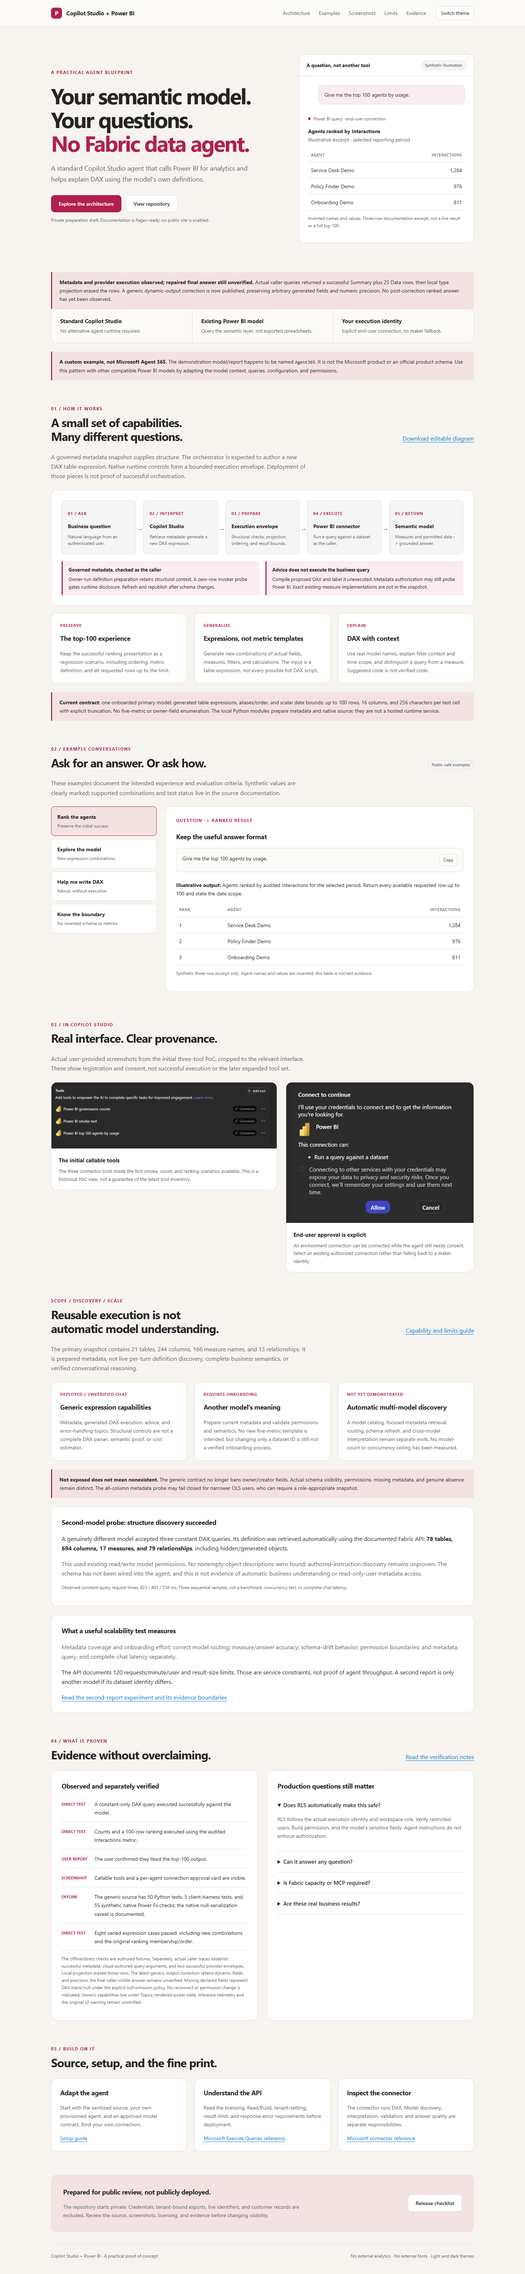
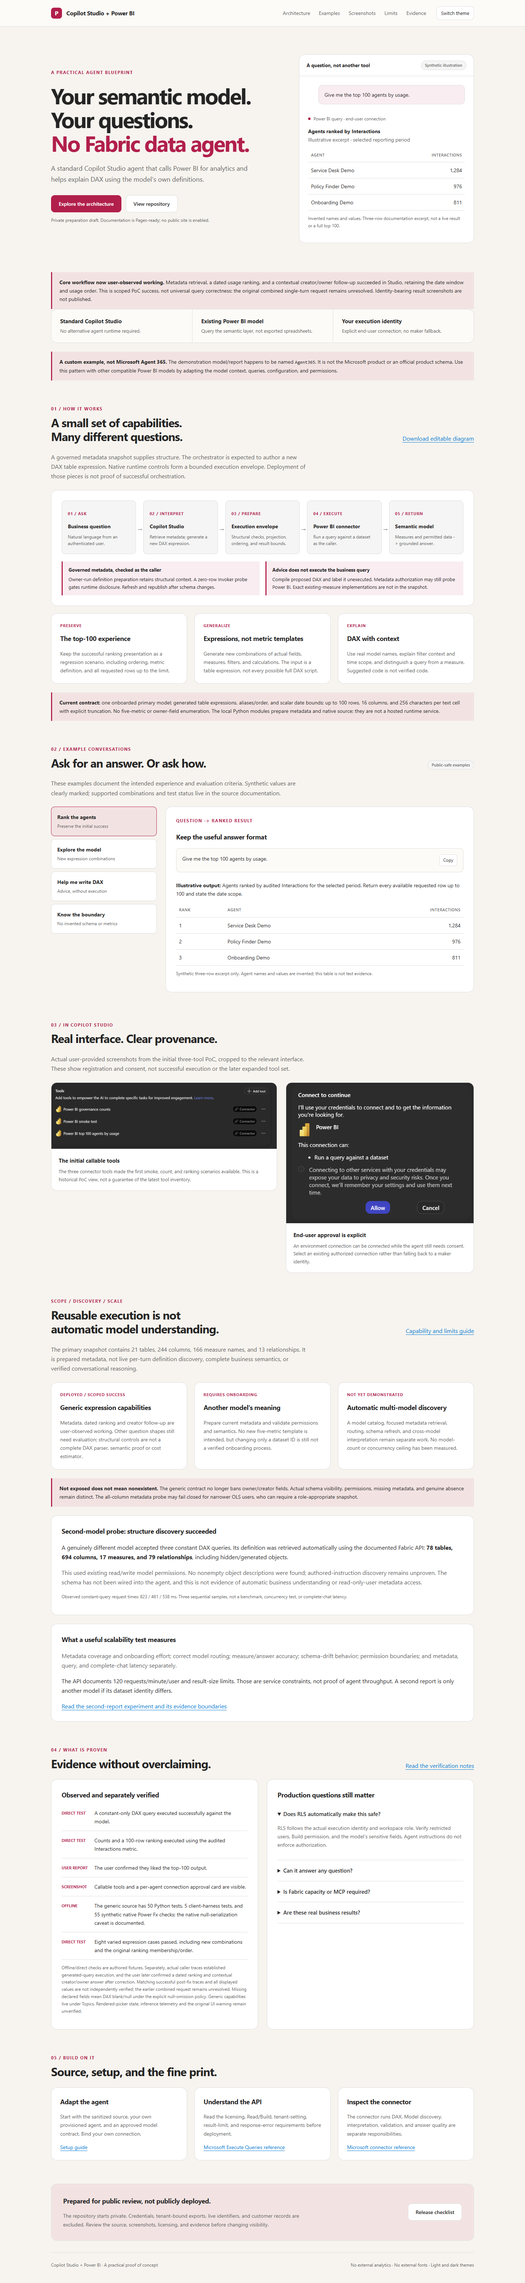
Document successful dated ranking and contextual creator follow-up
Record scoped user-observed PoC success while retaining the unresolved combined-request and trace limitations. Refresh the walkthrough and provenance without publishing identity-bearing screenshots or changing the working agent.

diff --git a/docs/index.html b/docs/index.html
@@ -228,7 +228,7 @@
         </div>
       </div>
     </div>
-    <div class="note"><strong>Metadata and provider execution observed; repaired final answer still unverified.</strong> Actual caller queries returned a successful Summary plus 25 Data rows, then local type projection erased the rows. A generic dynamic-output correction is now published, preserving arbitrary generated fields and numeric precision. No post-correction ranked answer has yet been observed.</div>
+    <div class="note"><strong>Core workflow now user-observed working.</strong> Metadata retrieval, a dated usage ranking, and a contextual creator/owner follow-up succeeded in Studio, retaining the date window and usage order. This is scoped PoC success, not universal query correctness: the original combined single-turn request remains unresolved. Identity-bearing result screenshots are not published.</div>
     <div class="strip">
       <div><strong>Standard Copilot Studio</strong><span>No alternative agent runtime required.</span></div>
       <div><strong>Existing Power BI model</strong><span>Query the semantic layer, not exported spreadsheets.</span></div>
@@ -284,7 +284,7 @@
           <div class="prompt-box"><p id="prompt-analyze">Give me the top agents and their usage over the last 30 days.</p><button class="copy" data-copy="prompt-analyze" type="button">Copy</button></div>
           <p><strong>Expected answer contract:</strong> retrieve relevant metadata, generate a ranking expression with paired date expressions using the trusted engine UTC anchor, and explain the actual requested scope. Do not substitute an all-history ranking.</p>
           <p>Follow with <em>"Add platform and region, apply these two filters, and calculate sessions per user."</em> Those combinations should be authored from metadata rather than require a new metric template. Observe the actual generated expression before claiming success.</p>
-          <div class="note">Evaluation scenario, not a recorded successful chat. With a 12 September 2026 test clock, the requested window is 14 August-12 September inclusive. Production dates are dynamic. Observed event bounds are not refresh timestamps or proof of continuous coverage.</div>
+          <div class="note">A dated usage ranking and creator follow-up are user-observed successful; this example is not a published transcript. With a 12 September 2026 UTC anchor, the requested window is 14 August-12 September inclusive. Production dates are dynamic. Observed event bounds are not refresh timestamps or proof of continuous coverage.</div>
         </div>
         <div class="panel example-panel" id="panel-dax" role="tabpanel" aria-labelledby="tab-dax" tabindex="0" hidden>
           <span class="eyebrow">Question -> model-grounded explanation</span><h3>Teach the query, not just its result</h3>
@@ -323,7 +323,7 @@ ORDER BY 'Date'[YearMonth]</code></pre>
       <div class="section-title"><div><span class="eyebrow">Scope / Discovery / Scale</span><h2>Reusable execution is not<br>automatic model understanding.</h2></div><a href="https://github.com/RyanBowie/copilot-studio-powerbi-agent/blob/main/docs/capabilities-and-limits.md">Capability and limits guide</a></div>
       <p class="section-copy">The primary snapshot contains 21 tables, 244 columns, 166 measure names, and 13 relationships. It is prepared metadata, not live per-turn definition discovery, complete business semantics, or verified conversational reasoning.</p>
       <div class="three-grid">
-        <article class="panel feature"><span class="step-no">DEPLOYED / UNVERIFIED CHAT</span><h3>Generic expression capabilities</h3><p>Metadata, generated-DAX execution, advice, and error-handling topics. Structural controls are not a complete DAX parser, semantic proof, or cost estimator.</p></article>
+        <article class="panel feature"><span class="step-no">DEPLOYED / SCOPED SUCCESS</span><h3>Generic expression capabilities</h3><p>Metadata, dated ranking and creator follow-up are user-observed working. Other question shapes still need evaluation; structural controls are not a complete DAX parser, semantic proof or cost estimator.</p></article>
         <article class="panel feature"><span class="step-no">REQUIRES ONBOARDING</span><h3>Another model's meaning</h3><p>Prepare current metadata and validate permissions and semantics. No new five-metric template is intended, but changing only a dataset ID is still not a verified onboarding process.</p></article>
         <article class="panel feature"><span class="step-no">NOT YET DEMONSTRATED</span><h3>Automatic multi-model discovery</h3><p>A model catalog, focused metadata retrieval, routing, schema refresh, and cross-model interpretation remain separate work. No model-count or concurrency ceiling has been measured.</p></article>
       </div>
@@ -353,12 +353,12 @@ ORDER BY 'Date'[YearMonth]</code></pre>
           <div class="check-row"><span class="status">SCREENSHOT</span><span>Callable tools and a per-agent connection approval card are visible.</span></div>
           <div class="check-row"><span class="status">OFFLINE</span><span>The generic source has 50 Python tests, 5 client-harness tests, and 55 synthetic native Power Fx checks; the native null-serialization caveat is documented.</span></div>
           <div class="check-row"><span class="status">DIRECT TEST</span><span>Eight varied expression cases passed, including new combinations and the original ranking membership/order.</span></div>
-          <p class="footnote">The offline/direct checks are authored fixtures. Separately, actual caller traces establish successful metadata, cloud-authored query arguments, and two successful provider envelopes. Local projection erased those rows. The latest generic output correction retains dynamic fields and precision; the final caller-visible answer remains unverified. Missing declared fields represent DAX blank/null under the explicit null-omission policy. No reconnect or permission change is indicated. Generic capabilities live under Topics; rendered-picker state, inference telemetry and the original UI warning remain unverified.</p>
+          <p class="footnote">Offline/direct checks are authored fixtures. Separately, actual caller traces established generated-query execution, and the user later confirmed a dated ranking and contextual creator/owner answer after correction. Matching successful post-fix traces and all displayed values are not independently verified; the earlier combined request remains unresolved. Missing declared fields mean DAX blank/null under the explicit null-omission policy. Generic capabilities live under Topics. Rendered-picker state, inference telemetry and the original UI warning remain unverified.</p>
         </div>
         <div class="panel">
           <h3>Production questions still matter</h3>
           <details open><summary>Does RLS automatically make this safe?</summary><p>RLS follows the actual execution identity and workspace role. Verify restricted users, Build permission, and the model's sensitive fields. Agent instructions do not enforce authorization.</p></details>
-          <details><summary>Can it answer any question?</summary><p>No guarantee. The generic contract removes the five-metric mapping but still requires valid metadata, permissions, supported table-expression syntax, and correct reasoning. Exact measure implementations and automatic multi-model routing are not provided, and successful chat generation is not yet verified.</p></details>
+          <details><summary>Can it answer any question?</summary><p>No guarantee. The generic contract removes the five-metric mapping but still requires valid metadata, permissions, supported table-expression syntax and correct reasoning. Dated ranking and creator follow-up are user-observed working; the combined request and broader question coverage remain unverified. Exact measure implementations and automatic multi-model routing are not provided.</p></details>
           <details><summary>Is Fabric capacity or MCP required?</summary><p>A Fabric data agent is not required for the connector/REST route. Power BI licensing still applies. Hosted Power BI MCP is a separate optional integration; its query-generation tool has Copilot entitlement requirements.</p></details>
           <details><summary>Are these real business results?</summary><p>The UI screenshots are real. Public example names and numbers are synthetic. No customer result rows or private conversation transcripts are published here.</p></details>
         </div>

diff --git a/site/index.template.html b/site/index.template.html
@@ -228,7 +228,7 @@
         </div>
       </div>
     </div>
-    <div class="note"><strong>Metadata and provider execution observed; repaired final answer still unverified.</strong> Actual caller queries returned a successful Summary plus 25 Data rows, then local type projection erased the rows. A generic dynamic-output correction is now published, preserving arbitrary generated fields and numeric precision. No post-correction ranked answer has yet been observed.</div>
+    <div class="note"><strong>Core workflow now user-observed working.</strong> Metadata retrieval, a dated usage ranking, and a contextual creator/owner follow-up succeeded in Studio, retaining the date window and usage order. This is scoped PoC success, not universal query correctness: the original combined single-turn request remains unresolved. Identity-bearing result screenshots are not published.</div>
     <div class="strip">
       <div><strong>Standard Copilot Studio</strong><span>No alternative agent runtime required.</span></div>
       <div><strong>Existing Power BI model</strong><span>Query the semantic layer, not exported spreadsheets.</span></div>
@@ -284,7 +284,7 @@
           <div class="prompt-box"><p id="prompt-analyze">Give me the top agents and their usage over the last 30 days.</p><button class="copy" data-copy="prompt-analyze" type="button">Copy</button></div>
           <p><strong>Expected answer contract:</strong> retrieve relevant metadata, generate a ranking expression with paired date expressions using the trusted engine UTC anchor, and explain the actual requested scope. Do not substitute an all-history ranking.</p>
           <p>Follow with <em>"Add platform and region, apply these two filters, and calculate sessions per user."</em> Those combinations should be authored from metadata rather than require a new metric template. Observe the actual generated expression before claiming success.</p>
-          <div class="note">Evaluation scenario, not a recorded successful chat. With a 12 September 2026 test clock, the requested window is 14 August-12 September inclusive. Production dates are dynamic. Observed event bounds are not refresh timestamps or proof of continuous coverage.</div>
+          <div class="note">A dated usage ranking and creator follow-up are user-observed successful; this example is not a published transcript. With a 12 September 2026 UTC anchor, the requested window is 14 August-12 September inclusive. Production dates are dynamic. Observed event bounds are not refresh timestamps or proof of continuous coverage.</div>
         </div>
         <div class="panel example-panel" id="panel-dax" role="tabpanel" aria-labelledby="tab-dax" tabindex="0" hidden>
           <span class="eyebrow">Question -> model-grounded explanation</span><h3>Teach the query, not just its result</h3>
@@ -323,7 +323,7 @@ ORDER BY 'Date'[YearMonth]</code></pre>
       <div class="section-title"><div><span class="eyebrow">Scope / Discovery / Scale</span><h2>Reusable execution is not<br>automatic model understanding.</h2></div><a href="https://github.com/RyanBowie/copilot-studio-powerbi-agent/blob/main/docs/capabilities-and-limits.md">Capability and limits guide</a></div>
       <p class="section-copy">The primary snapshot contains 21 tables, 244 columns, 166 measure names, and 13 relationships. It is prepared metadata, not live per-turn definition discovery, complete business semantics, or verified conversational reasoning.</p>
       <div class="three-grid">
-        <article class="panel feature"><span class="step-no">DEPLOYED / UNVERIFIED CHAT</span><h3>Generic expression capabilities</h3><p>Metadata, generated-DAX execution, advice, and error-handling topics. Structural controls are not a complete DAX parser, semantic proof, or cost estimator.</p></article>
+        <article class="panel feature"><span class="step-no">DEPLOYED / SCOPED SUCCESS</span><h3>Generic expression capabilities</h3><p>Metadata, dated ranking and creator follow-up are user-observed working. Other question shapes still need evaluation; structural controls are not a complete DAX parser, semantic proof or cost estimator.</p></article>
         <article class="panel feature"><span class="step-no">REQUIRES ONBOARDING</span><h3>Another model's meaning</h3><p>Prepare current metadata and validate permissions and semantics. No new five-metric template is intended, but changing only a dataset ID is still not a verified onboarding process.</p></article>
         <article class="panel feature"><span class="step-no">NOT YET DEMONSTRATED</span><h3>Automatic multi-model discovery</h3><p>A model catalog, focused metadata retrieval, routing, schema refresh, and cross-model interpretation remain separate work. No model-count or concurrency ceiling has been measured.</p></article>
       </div>
@@ -353,12 +353,12 @@ ORDER BY 'Date'[YearMonth]</code></pre>
           <div class="check-row"><span class="status">SCREENSHOT</span><span>Callable tools and a per-agent connection approval card are visible.</span></div>
           <div class="check-row"><span class="status">OFFLINE</span><span>The generic source has 50 Python tests, 5 client-harness tests, and 55 synthetic native Power Fx checks; the native null-serialization caveat is documented.</span></div>
           <div class="check-row"><span class="status">DIRECT TEST</span><span>Eight varied expression cases passed, including new combinations and the original ranking membership/order.</span></div>
-          <p class="footnote">The offline/direct checks are authored fixtures. Separately, actual caller traces establish successful metadata, cloud-authored query arguments, and two successful provider envelopes. Local projection erased those rows. The latest generic output correction retains dynamic fields and precision; the final caller-visible answer remains unverified. Missing declared fields represent DAX blank/null under the explicit null-omission policy. No reconnect or permission change is indicated. Generic capabilities live under Topics; rendered-picker state, inference telemetry and the original UI warning remain unverified.</p>
+          <p class="footnote">Offline/direct checks are authored fixtures. Separately, actual caller traces established generated-query execution, and the user later confirmed a dated ranking and contextual creator/owner answer after correction. Matching successful post-fix traces and all displayed values are not independently verified; the earlier combined request remains unresolved. Missing declared fields mean DAX blank/null under the explicit null-omission policy. Generic capabilities live under Topics. Rendered-picker state, inference telemetry and the original UI warning remain unverified.</p>
         </div>
         <div class="panel">
           <h3>Production questions still matter</h3>
           <details open><summary>Does RLS automatically make this safe?</summary><p>RLS follows the actual execution identity and workspace role. Verify restricted users, Build permission, and the model's sensitive fields. Agent instructions do not enforce authorization.</p></details>
-          <details><summary>Can it answer any question?</summary><p>No guarantee. The generic contract removes the five-metric mapping but still requires valid metadata, permissions, supported table-expression syntax, and correct reasoning. Exact measure implementations and automatic multi-model routing are not provided, and successful chat generation is not yet verified.</p></details>
+          <details><summary>Can it answer any question?</summary><p>No guarantee. The generic contract removes the five-metric mapping but still requires valid metadata, permissions, supported table-expression syntax and correct reasoning. Dated ranking and creator follow-up are user-observed working; the combined request and broader question coverage remain unverified. Exact measure implementations and automatic multi-model routing are not provided.</p></details>
           <details><summary>Is Fabric capacity or MCP required?</summary><p>A Fabric data agent is not required for the connector/REST route. Power BI licensing still applies. Hosted Power BI MCP is a separate optional integration; its query-generation tool has Copilot entitlement requirements.</p></details>
           <details><summary>Are these real business results?</summary><p>The UI screenshots are real. Public example names and numbers are synthetic. No customer result rows or private conversation transcripts are published here.</p></details>
         </div>

diff --git a/scripts/build_architecture.py b/scripts/build_architecture.py
@@ -76,7 +76,7 @@ def main():
         if index < len(nodes) - 1:
             arrow(f"main-{index}", x + 244, 245, x + 272, 245)
     box("contract", 320, 400, 430, 150, "Governed metadata snapshot", "Owner preparation / refresh; caller visibility probe.\nNo complete business-meaning guarantee.", True)
-    box("advice", 800, 400, 560, 150, "Advice: business query is unexecuted", "Metadata authorization may still query Power BI.\nFull cloud-generated query chaining remains unverified.", True)
+    box("advice", 800, 400, 560, 150, "Advice: business query is unexecuted", "Metadata authorization may still query Power BI.\nOther query shapes still require validation.", True)
     arrow("grounding", 435, 395, 435, 340)
     arrow("advice-path", 560, 335, 870, 395)
     text("identity-note", 40, 580, "Power BI permissions and RLS follow the execution identity. Agent instructions are not an authorization boundary.", 16, 1350)

diff --git a/docs/verification.md b/docs/verification.md
@@ -2,10 +2,11 @@
 
 ## Current status
 
-**Metadata retrieval, cloud-authored DAX and successful provider execution are observed.
-The repaired final user-facing answer is not yet verified.** The actual caller's successful
-rows were lost during local type projection. A generic dynamic-output correction is published;
-the complete query-to-explained-answer chain still needs confirmation.
+**The core PoC workflow is now user-observed successful:** metadata retrieval, a dated usage
+ranking, and a contextual creator/owner follow-up retaining the date window and usage order.
+Matching post-correction traces and every displayed value have not been independently checked.
+The original combined single-turn two-scope request remains unresolved; this is not universal
+query correctness, a load benchmark, or a multi-model validation claim.
 
 The Studio model selector showed GPT-4.1 despite raw YAML retaining a reasoning-model hint.
 Native Studio parsing had dropped `aISettings` and topic bodies. Corrected YAML serialization
@@ -27,7 +28,9 @@ This is selector-backend evidence, not an independently observed rendered picker
 | Metadata-topic selection and AI-filled metadata arguments | Observed after serialization repair |
 | Successful metadata answer | User-observed catalog, corroborated by caller traces |
 | Successful provider query envelopes | Two executions, each with one ok Summary and 25 Data rows |
-| Complete new-runtime chat answer | Not verified |
+| User-visible dated ranking | User confirmed success; explicit metric, UTC anchor, dates and descending usage order |
+| Contextual creator/owner follow-up | User confirmed success; same date window and usage ordering |
+| Original combined single-turn request | Still unresolved; not superseded by narrower successful cases |
 
 Direct cases include multiple groupings/filters, a derived ratio, owner/creator aggregate counts,
 the familiar ranking, explicit dates, complete-month comparisons, a table outside the old compiler,
@@ -151,7 +154,7 @@ requests it, before testing metadata again. This is not a recommendation to gran
 change datasets, or substitute maker credentials. No generated business query was attempted
 because metadata retrieval had not completed.
 
-### User retest: the live output-contract failure persists
+### Earlier user retest: the output-contract failure persisted
 
 The user's subsequent catalog-only Studio request returned the new deterministic
 `schema_probe_output_validation` failure message: the connector returned, but the validator did
@@ -184,7 +187,7 @@ The user subsequently confirmed success at 22:55 BST: the Studio answer listed 2
 metadata retrieval after the correction. No reconnect or permission change was required to explain
 the earlier local marker loss. The raw model screenshot is not copied into this publication.
 
-### Business-query retest: generic result validation remains blocked
+### Earlier business-query retest: generic result validation failed
 
 The next user request asked for a top-20 usage ranking with creators and a top-five last-30-days
 view. Its response reported schema grounding, a generated combined expression, an initial execution
@@ -196,7 +199,7 @@ This is progress beyond the metadata blocker, not a successful ranked answer. Th
 narrative alone does not establish the exact generated DAX or provider result. Actual caller trace
 inspection is needed to distinguish provider errors from the generic path's known dynamic-type
 projection risk. No permission change or repeated user prompt is indicated by these flags.
-The generic result handling is being investigated separately from the now-successful metadata path.
+This prompted the generic result-handling investigation described next.
 
 ### Actual query trace and final dynamic-output correction
 
@@ -220,9 +223,33 @@ path passes native fractional/tiny/large numeric, integer-above-2^53, Boolean, I
 empty-string and null-omission cases. Eight direct-model regressions pass, including original
 top-100 membership/order and physical-versus-decoded cell comparisons.
 
-No post-correction caller-visible ranking has yet been observed. One original-question retest
-in the existing connected Studio session remains; no metadata-only rerun, reconnect, grants
-or dataset switch are indicated. Keep actual identity/business rows private.
+No post-correction caller-visible ranking has yet been observed. At 00:20 BST on 13 September,
+the user supplied another failure showing the same envelope-error and retry wording, and explicitly
+confirmed that it was a new response after refreshing Studio and starting a new test session.
+It must not be dismissed as an earlier answer still displayed in the pane.
+
+The next investigation correlates that execution's timestamp, actual topic contract, returned shape
+and normalized result with the published correction. Native authoring readback alone is insufficient
+to establish what ran. No additional refresh/retry, permission change, dataset switch or speculative
+type change is indicated before that reconciliation. Actual identity/business rows remain private.
+
+## User-observed success after the final correction
+
+At 00:26 BST on 13 September, the user confirmed a successful last-30-days usage ranking.
+The answer defined usage as audit-log interaction counts, used UTC anchor 12 September,
+stated the inclusive 14 August-12 September window, and displayed descending usage counts.
+The screenshot is cropped, with 19 numbered entries visible in an answer described as top 20;
+it does not establish every returned row or independently verify every number.
+
+At 00:27 BST, the user asked "now get me their creator details" and confirmed success.
+The answer resolved the reference to the previously ranked agents and retained the same
+date window and usage ordering while adding creator/owner details. This demonstrates the
+requested contextual follow-up behavior, not a field-specific fixed-query tool.
+
+No names, emails, identifiers or business values are copied here. Matching post-publication
+traces were not yet available during the bounded read-only check, so the prior combined-request
+failure is not attributed to caching, an old session or unsupported creator fields. No live/source
+changes, republishing, retests or further user requests followed these successful observations.
 
 ## Historical fixed-query evidence
 

diff --git a/agent/README.md b/agent/README.md
@@ -13,7 +13,14 @@ orchestrator is configured to author **new DAX table expressions** from machine-
 Power Fx topics validate the expression boundary and build a bounded DAX execution envelope. The
 standard Power BI connector runs it with **Invoker/end-user authentication**.
 
-### Current release: generic dynamic-result correction; final caller answer still unverified
+### Current release: core workflow observed working after dynamic-result correction
+
+The user has confirmed successful metadata retrieval, a last-30-days usage ranking, and a
+contextual creator/owner follow-up retaining the same date window and usage order. The working
+deployment is preserved. This is user-observed scoped success: matching post-fix execution
+traces and every displayed value have not been independently verified. The original combined,
+single-turn two-scope request remains unresolved; no universal query-correctness claim is made.
+Real names, emails, IDs and business values from the successful screenshots are not published.
 
 Metadata success is now established by the user's Studio result and matching caller traces.
 The subsequent ranking question reached **two actual executions**. Each returned **one successful
@@ -48,10 +55,9 @@ Separate authorized direct-model checks pass for multiple filters/groupings, der
 owner/creator aggregates, dates, empty results, genuine unsupported-column errors and the original
 top-100 membership/order. These are not proof of the final caller-visible answer.
 
-**One final Studio confirmation:** refresh Studio and ask the original ranking/creator/last-30-days
-question once in the existing authenticated test pane. Confirm the returned ordered tables and
-date scope; if it fails, report only status/stage/error, not identity rows. No reconnect, new grant
-or metadata-only rerun is requested. No fresh automated conversations were started.
+**Observed confirmation:** separate dated-ranking and creator-follow-up answers now succeed in
+the user's connected Studio session. No further user run, reconnect, grant or deployment change
+is requested. The unresolved combined case is tracked in [verification](../docs/verification.md).
 
 ### Earlier metadata output-type correction
 
@@ -95,7 +101,7 @@ An error-shaped member is not an established provider denial. Actual connector e
 on the existing separate OnError path.
 
 Metadata D1 diagnostics remain available on failures; no extra metadata-only test is currently
-needed. The remaining confirmation concerns the generic query's returned and explained ranking.
+needed. Successful dated ranking and contextual creator answers are now user-observed.
 
 ### Previous change: native connector row normalization
 
@@ -158,9 +164,9 @@ metadata attempt reached the client's 120-second timeout without returned activi
 attempt, with a 300-second client budget and an explicit catalog request, returned **HTTP 504**
 (`UnexpectedError`, “An unexpected error occurred.”). Neither failure establishes an
 authentication failure or proves that the connector was reached.
-Those timeouts are historical; the latest user-observed boundary is the unresolved probe validation
-failure described above. Caller-generated queries returned successful envelopes before local
-serialization loss; the final decoded and explained ranking still needs confirmation.
+Those timeouts and the probe-validation failure are historical. Caller-generated queries returned
+successful envelopes before local serialization loss; after correction, dated ranking and creator
+follow-up answers are now user-observed successful.
 
 ### Model-selection and parser correction
 
@@ -346,7 +352,7 @@ Direct authorized checks cover:
 These are **LLM-authored test fixtures applied to the generic contract**, not evidence of cloud chat
 generation. Runtime code does not contain these business queries. Metadata-topic selection and
 AI-filled metadata arguments and caller-generated DAX execution are now observed in real traces.
-The repaired decoder's final user-facing analytical answer still needs Studio confirmation.
+The user has since confirmed successful dated-ranking and contextual creator/owner answers.
 Do not publish business rows, identity values, raw schema snapshots or fabricated screenshots.
 
 The SDK test harness previously ignored `--prompt` outside `--maker-test` and always sent a retired

diff --git a/docs/capabilities-and-limits.md b/docs/capabilities-and-limits.md
@@ -1,8 +1,8 @@
 # Capabilities, metadata, and scaling limits
 
-**This is an experimental generated-DAX implementation, not a verified general conversational
-analyst.** The source contract has moved beyond the retired five-metric compiler, but successful
-cloud metadata retrieval -> generated expression -> execution -> final answer has not been observed.
+**This is an experimental generated-DAX implementation with user-observed core workflow success.**
+Metadata retrieval, a dated usage ranking and a contextual creator/owner follow-up now work in
+the reported Studio session. This does not establish correctness for every question or identity.
 
 The custom model/report called `Agent365` is not Microsoft Agent 365.
 
@@ -17,7 +17,7 @@ The custom model/report called `Agent365` is not Microsoft Agent 365.
 | Owner/creator fields | Actual metadata and requesting-user permissions | Blanket demo exclusion |
 | Dates | Generated scalar expressions over a trusted UTC anchor | Paired dates or a fixed last-30-days resolver |
 | Top-100 ranking | Generic-contract regression scenario | Specialized fixed tool |
-| Chat proof | Not achieved | User reported successful original ranking; not proof of the new path |
+| Chat evidence | User-observed dated ranking and creator follow-up; combined single-turn case unresolved | User reported successful original fixed ranking |
 
 Removing a finite list does not guarantee a correct answer to every question. Missing data, ambiguous
 definitions, permission boundaries, language constraints, and incorrect generated logic still matter.
@@ -127,7 +127,7 @@ A single Execute Queries call does not arbitrarily join separate datasets.
 ## What remains unverified
 
 - General accuracy of cloud-authored expressions across representative questions (actual generation and successful provider execution are observed for the reported ranking).
-- Successful full chat results and explanations.
+- Original combined single-turn two-scope request, complete value-by-value checks, and general answer accuracy beyond the successful dated-ranking/creator workflow.
 - Role-specific metadata access and representative RLS/OLS behavior.
 - Existing-measure implementation explanations and model-authored guidance retrieval.
 - Automatic schema drift handling, multi-model routing, realistic load, and concurrency.
@@ -144,7 +144,8 @@ uses `firstTableRows:Any` and serializes the dynamic array directly. Arbitrary g
 original numeric precision remain supported; no finite business mappings were introduced.
 Explicit `includeNulls=false` means omitted declared fields represent DAX blank/null, not absent
 schema. Empty strings remain distinct. TOJSON was rejected after observed fractional truncation.
-The metadata gate is unchanged. A post-fix caller-visible ranking still needs confirmation.
+The metadata gate is unchanged. Post-fix dated ranking and contextual creator/owner answers
+are now user-observed; the combined single-turn request is not reverified.
 
 ## Suggested evaluation matrix
 

diff --git a/README.md b/README.md
@@ -17,16 +17,20 @@ This repository packages a proof of concept, its reusable agent source, and a pu
 - [Second-report scalability experiment](docs/scalability-experiment.md)
 - [Public-release checklist](docs/public-release.md)
 
-## Current status: broader design, unresolved chat verification
+## Current status: core workflow observed working
 
 The five-metric compiler and fixed business-query paths have been replaced in the deployed design.
 The new capabilities retrieve governed model metadata and accept **new DAX table expressions**
 authored by the orchestrator, rather than mapping questions to a predefined metric list.
 
-**Metadata retrieval, cloud-generated DAX and successful provider execution are now observed;
-the repaired final answer remains unverified.** Actual caller traces show two executions each
-returning one successful Summary and 25 Data rows, then local type projection erased all 26 rows.
-That was a response-handling defect, not a demonstrated permission or DAX failure.
+**The user has now observed metadata retrieval, a dated usage ranking, and a contextual
+creator/owner follow-up working in Studio.** The follow-up retained the same date window
+and usage order without a separate fixed-query tool. Identity-bearing screenshots are not published.
+
+This is scoped PoC success, not universal correctness. The earlier combined, single-turn
+two-ranking request remains unresolved; matching post-correction traces and every displayed
+value have not been independently verified. Earlier traces did establish successful provider
+queries whose rows were lost locally, leading to the response-handling correction.
 
 The published generic query action now retains `firstTableRows` as dynamic `Any` and serializes
 the array directly, preserving arbitrary generated aliases and numeric precision. Explicit

diff --git a/docs/examples.md b/docs/examples.md
@@ -16,9 +16,9 @@ or an access failure as proof that data does not exist.
 
 **Observed result:** after the numeric output-type correction, the user's Studio answer listed the
 model catalog, measures, snapshot freshness and relationships. Metadata retrieval now succeeds.
-The later business query's successful provider rows were lost locally; its dynamic-output repair
-still needs final caller-visible ranking confirmation. Separate automated-client authorization
-boundaries are not diagnoses of this user's connection.
+After the generic output correction, dated usage ranking and contextual creator/owner answers
+also succeeded in the user's Studio session. Separate automated-client authorization boundaries
+are not diagnoses of that user's connection.
 
 ## Multiple dimensions and filters
 
@@ -88,6 +88,12 @@ Exact measure expressions are not retained by the current metadata preparation p
 not pretend to know an existing measure's implementation merely because its name is in the catalog.
 
 ## Owner/creator questions and actual access
+
+**User-observed successful follow-up:** after receiving a dated usage ranking, the user asked
+"now get me their creator details". The answer retained the same date window and usage order,
+then added creator/owner information. The identity-bearing screenshot and values are not published.
+The earlier combined, single-turn two-scope request remains unresolved; this confirms the
+contextual follow-up, not every possible combined request.
 
 > Which fields describe an agent's creator, and can you count records with that information?
 

diff --git a/docs/architecture.md b/docs/architecture.md
@@ -1,8 +1,9 @@
 # Metadata-grounded generated-DAX architecture
 
-**Deployment is not proof of successful chat orchestration.** The new generic runtime is deployed,
-but metadata -> cloud-generated DAX -> execution -> explanation has not been observed end to end.
-See [verification](verification.md) for the separate preview-routing and SDK-authorization blockers.
+**The core workflow is user-observed working:** metadata retrieval, a dated usage ranking, and
+a contextual creator/owner follow-up. This is not proof of universal query correctness or scaling.
+See [verification](verification.md) for evidence levels, the unresolved combined request, and
+historical preview/SDK blockers.
 
 The example named `Agent365` is a custom Power BI model/report, not Microsoft Agent 365.
 That distinction belongs in documentation, not runtime prompts.
@@ -81,7 +82,8 @@ are retained. A TOJSON alternative was rejected after observed fractional trunca
 
 Malformed local output contracts terminate without a DAX retry or provider-permission blame.
 Actual execution errors may receive one correction; a smaller response preview remains bounded
-by the same two-attempt ceiling. No successful repaired caller-visible ranking is yet claimed.
+by the same two-attempt ceiling. Dated ranking and contextual creator answers are user-observed;
+the combined single-turn request remains outside the verified scope.
 
 - Up to 100 rows and 16 declared columns.
 - Up to 256 characters per text cell, with a truncation flag.

diff --git a/docs/setup.md b/docs/setup.md
@@ -83,10 +83,11 @@ topic selection nor an HTTP error establishes that the complete published UI flo
 
 The automated evaluation's connection-manager card is separate from the connected Studio user.
 Metadata now succeeds, and actual caller queries returned successful envelopes before local
-projection erased their fields. After the latest dynamic-output correction, refresh Studio and
-repeat the original ranking question once in the existing connected session. Confirm ordered
-tables and date scope, or capture only status/stage/error on failure. No metadata-only rerun,
-reconnect, grants or dataset change is indicated by the observed local response-handling defect.
+projection erased their fields. After the dynamic-output correction, the user confirmed a dated
+ranking and contextual creator/owner follow-up. Preserve that working deployment. The original
+combined request remains unresolved, but no further user retry or permission change is requested.
+For your own deployment, follow the layered evaluation matrix rather than assuming those results
+transfer to another model or identity.
 
 `test-studio.cjs` uses an independent project-local browser profile and never the shared MCP browser.
 It does not enter credentials or fabricate interaction evidence.

diff --git a/docs/screenshots.md b/docs/screenshots.md
@@ -32,4 +32,10 @@ These are screenshots of the documentation itself, not a deployed public GitHub 
 
 ## Public-release review
 
+Later user-supplied screenshots confirmed a dated usage ranking and a contextual creator/owner
+follow-up. They contain business values and, in the follow-up, real names, emails and identifiers.
+They are deliberately not copied into this repository or embedded in the site. The successful
+scenarios are documented in [verification](verification.md) without those values. The synthetic
+ranking illustration remains labeled synthetic; it is not substituted as photographic proof.
+
 Review all images at full resolution before changing repository visibility. Microsoft product UI and trademarks remain their owners' property. Publication permissions and licensing must be reviewed by the repository owner; no public release has been assumed.

diff --git a/docs/date-filtering.md b/docs/date-filtering.md
@@ -55,6 +55,9 @@ subsequently replaced; its specialist top-100 query is no longer a runtime depen
 
 Direct generic-expression checks include explicit-date rankings and complete-month comparisons.
 These checks do not establish successful cloud generation, topic selection, or final chat wording.
-See [verification](verification.md) for the unresolved test routes.
+Separately, the user observed a successful dated ranking with the 14 August-12 September
+inclusive window, followed by creator details retaining that scope. This is not proof of every
+relative-date expression or source timezone. See [verification](verification.md) for evidence
+levels, the unresolved combined request, and historical test-route boundaries.
 
 [Copilot Studio date and time handling](https://learn.microsoft.com/en-us/microsoft-copilot-studio/manage-date-and-time)
